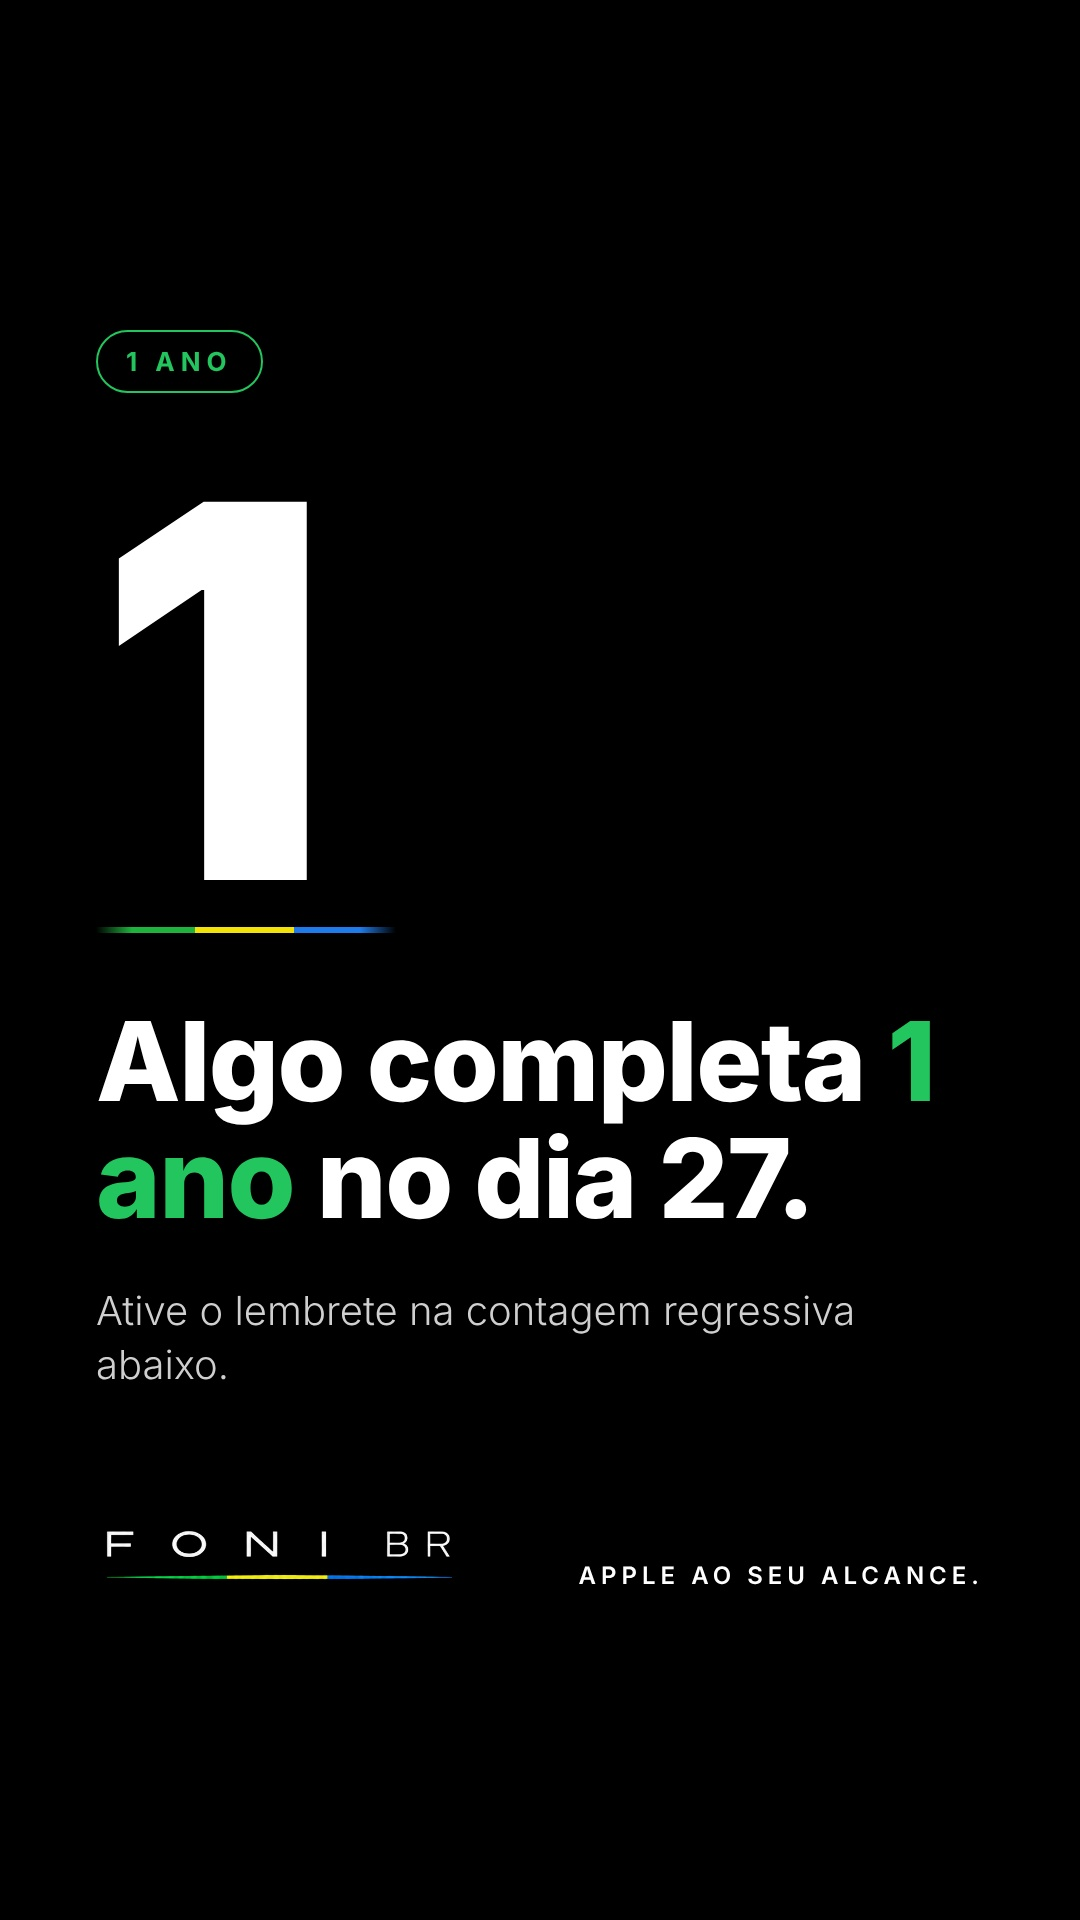
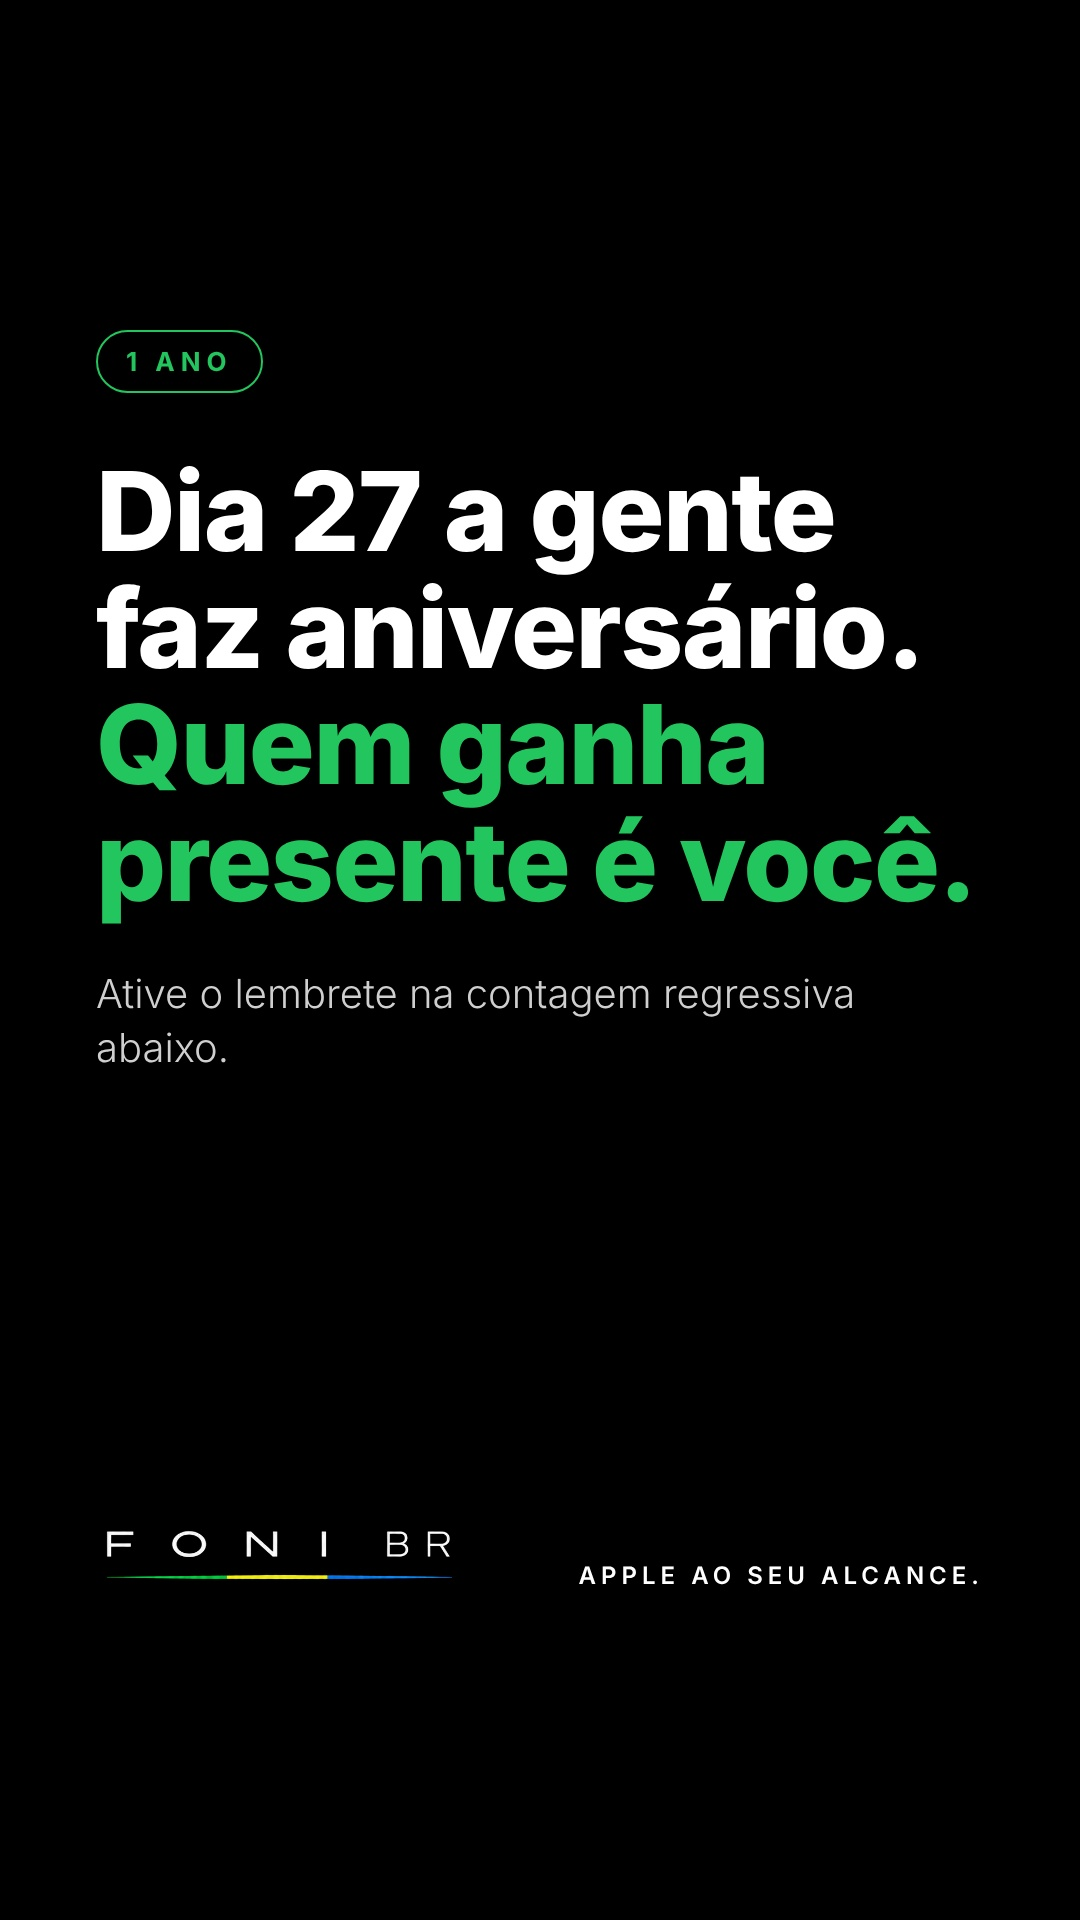
Teaser 1 Ano: nova frase 'Dia 27 a gente faz aniversário. Quem ganha presente é você.'
Claude-Session: https://claude.ai/code/session_019vjRdoULEb8Wzy24QqRALf

Changed region(s): [[0.0917, 0.2188, 0.8861, 0.7188], [0.825, 0.5312, 0.8861, 0.5938], [0.7333, 0.625, 0.7639, 0.6562]]

diff --git a/ferramentas/campanha_1ano/pecas.py b/ferramentas/campanha_1ano/pecas.py
@@ -119,9 +119,9 @@ def build():
 
     # 18/11 teaser
     add("2026-11-18", "foni_18h_1ano_teaser.jpg", "feed",
-        page(one('Algo completa <span class="g">1 ano</span> no dia 27.', "Ative as notificações. O presente é seu."), "feed"))
+        page(one('Dia 27 a gente faz aniversário. <span class="g">Quem ganha presente é você.</span>', "Ative as notificações.", cls="h1l"), "feed"))
     add("2026-11-18", "foni_story_18h_1ano_teaser.jpg", "story",
-        page(one('Algo completa <span class="g">1 ano</span> no dia 27.', "Ative o lembrete na contagem regressiva abaixo.") + '<div class="space" style="height:260px"></div>', "story"))
+        page(hero('Dia 27 a gente faz aniversário. <span class="g">Quem ganha presente é você.</span>', "Ative o lembrete na contagem regressiva abaixo.", mt=60), "story"))
 
     # 19/11 caixinha
     add("2026-11-19", "foni_story_1ano_primeiro_iphone.jpg", "story",
